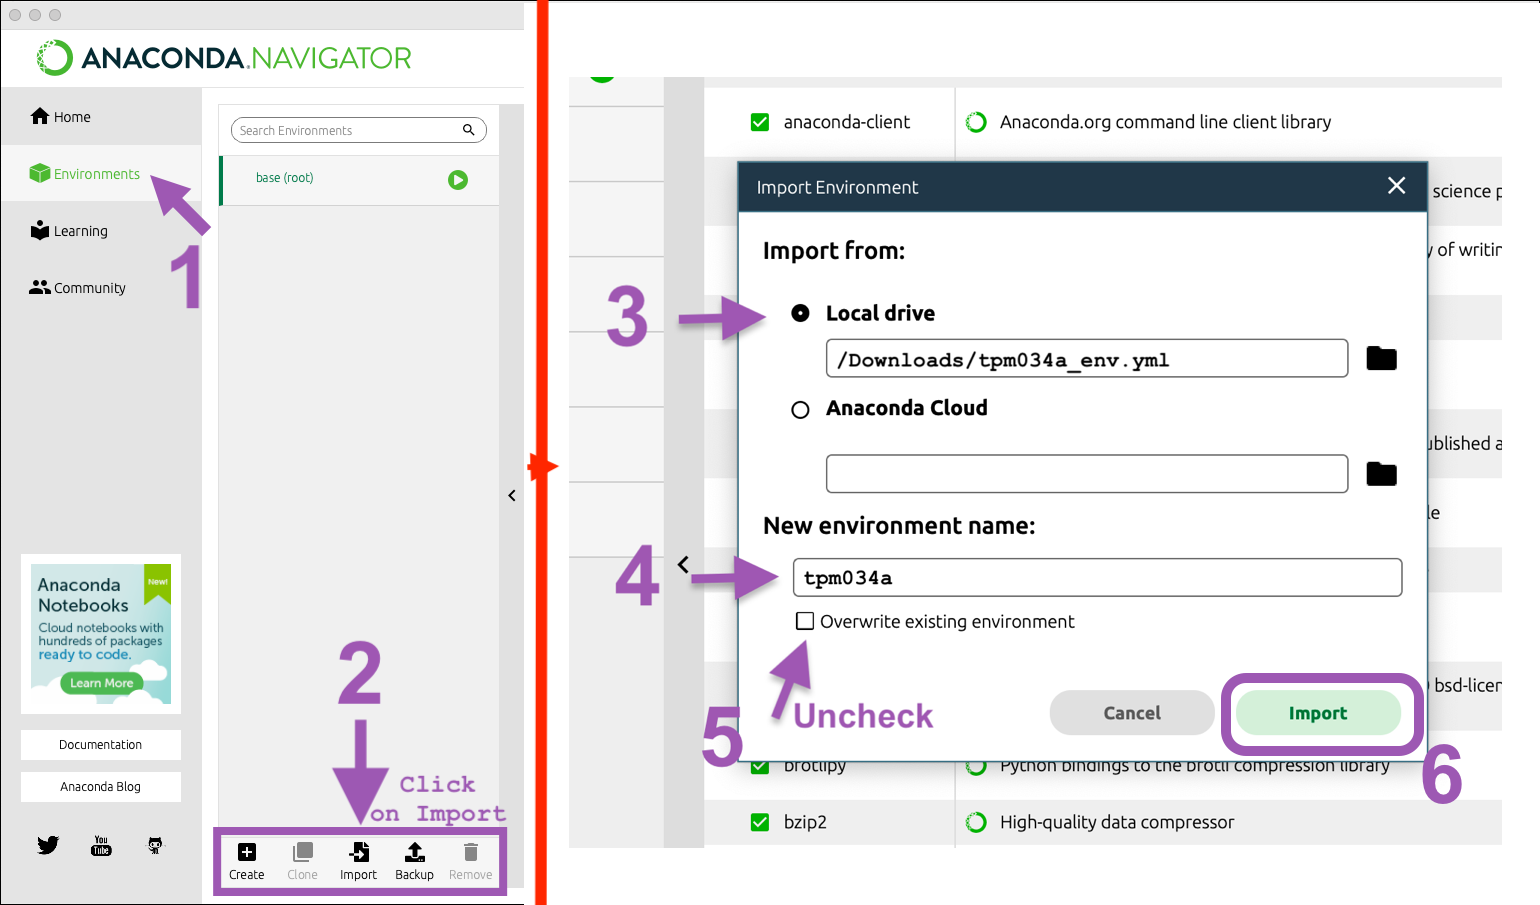
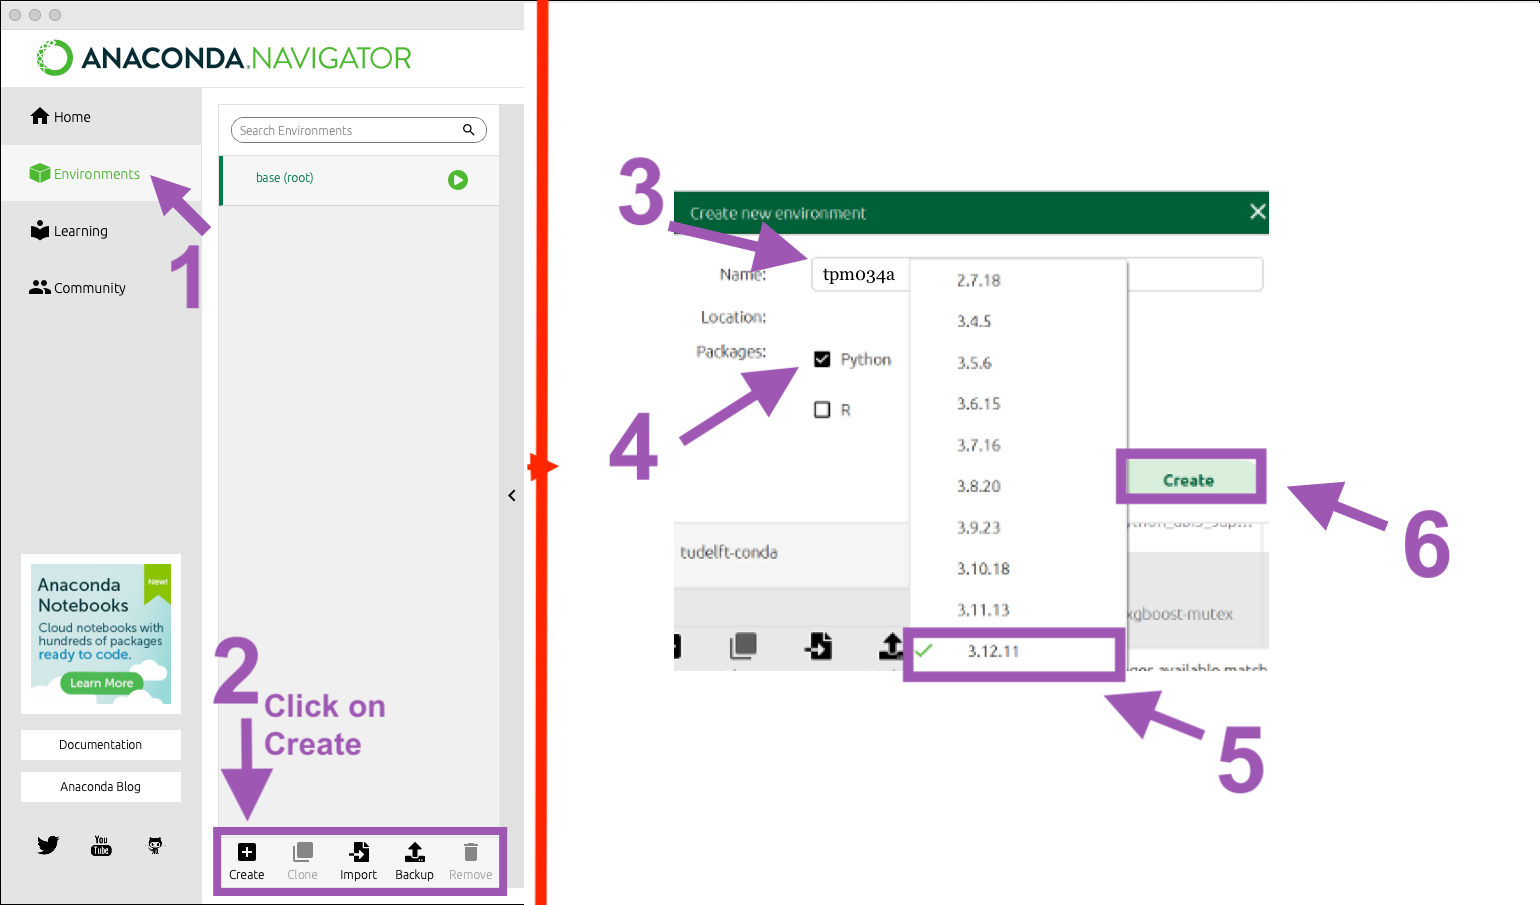
Updated instructions

Changed region(s): [[0.374, 0.0619, 0.9662, 0.9591], [0.1247, 0.7116, 0.3117, 0.9282]]

diff --git a/README.md b/README.md
@@ -131,21 +131,25 @@ If you are unfamiliar with Python, we recommend completing **lab session 0** aft
 
 *Python environments function like isolated sandboxes, each with its own versions of Python and packages. You can create, export, list, update, and remove environments as needed. Moving between environments, known as “activating” an environment, allows you to work with different setups for specific projects. When you’re finished with an environment, you can simply “deactivate” it to return to your default settings.*
 
-For this course, we have prepared the Python evironment as recipe. With this recipe, Anaconda can create the same coding environment for all of you. The recipe can be found in this repo (`tpm034a_env.yaml`).
-
-#### SETUP 1.2: Creating an environment from an `env.yaml` file
- * Download and unzip the `tpm034a_env` file to your computer ([download link](https://github.com/TPM034A/Q2_2025/raw/refs/heads/main/tpm034a_env.zip))
+#### SETUP 1.2: Creating an new EMPTY environment in Anaconda 
  * Open Anaconda Navigator:
     - (1) Go to “Environments” in the left sidebar.
-    - (2) Click on “Import”
-    - (3) From your local drive, import the file you just downloaded (*.yaml)
-    - (4) Give the environment a name (e.g., tmp034a)
-    - (5) Keep the option “Overwrite exisiting environment” UNchecked. 
-    - (6) Click on import (Depending on the speed of your connection, this step will take a while (but no less than 15-30 minutes))
+    - (2) Click on “Create”
+    - (3) Give the environment a name (e.g., tmp034a)
+    - (4) Click on Python
+    - (5) Select Python 3.12.11 on the list (or any 3.12.xx) 
+    - (6) Click on create (Depending on the speed of your connection, this step will take a while)
     ![Instructions for importing a env from yml](/assets/img_imp_env.png)
+
+#### SETUP 1.3: Installing the dependencies using the `requirements2025.txt` file
+ * Download the `requirements2025.txt` file to your computer ([download link](https://github.com/TPM034A/Q2_2025/raw/refs/heads/main/requirements2025.txt))
+ * Open Anaconda Navigator:
+    - (1) Go to “Environments” in the left sidebar.
+    - (2) Click on the "green play sign" of the environment we just created (e.g., tpm034a)
+    - (3) Select open terminal an run: ```pip install -r [PATH OF YOUR requirements2025.txt]``` (e.g., ) ```pip install -r [PATH OF YOUR users/peter/downloads/requirements2025.txt```
  * Once you have the environment ready. We have to choose an interpreter for activating the environment.
 
-#### SETUP 1.3: Using the new environment
+#### SETUP 1.4: Using the new environment
  * Open Anaconda Navigator:
     - (1) Go to “Home” in the left sidebar.
     - (2) In the scroll menu, select your newly created environment (e.g., tmp034a).
